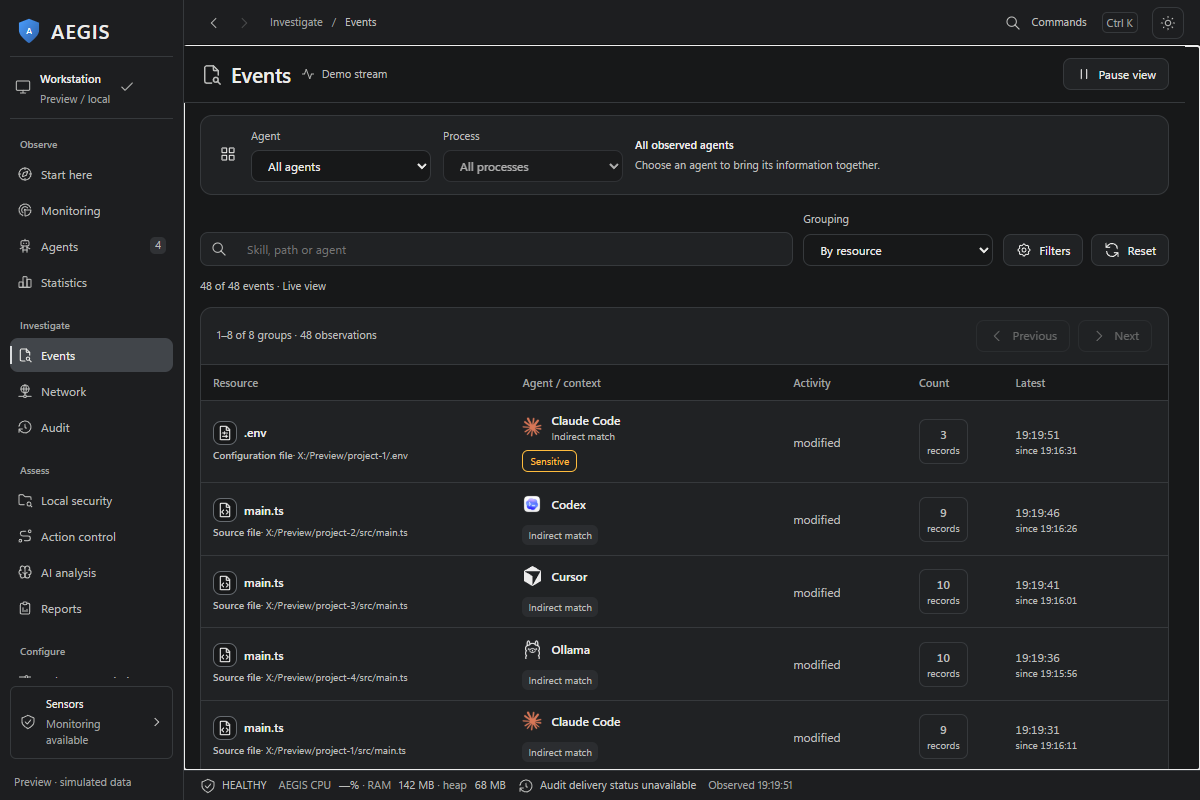
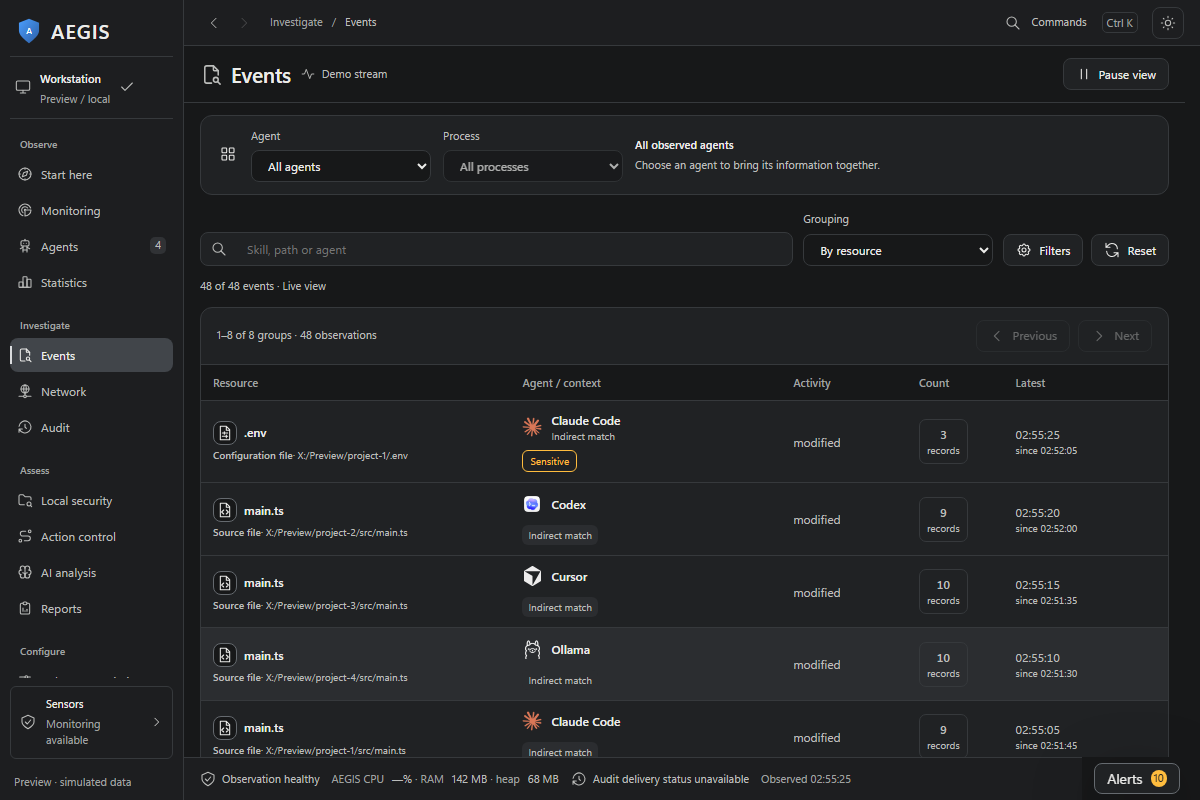
docs(beta): refresh public images and verified release scope

diff --git a/src/main/token-tracker.js b/src/main/token-tracker.js
@@ -62,7 +62,8 @@ const { MODEL_PRICING, DEFAULT_PRICING, computeCost } = require('./token-pricing
  * @property {number} outputTokens - accumulated completion/output tokens.
  * @property {number} totalTokens - `inputTokens + outputTokens`.
  * @property {number} costUsd - accumulated cost in USD (raw float; round at the
- *   display layer). Rests on the unverified {@link MODEL_PRICING} table.
+ *   display layer). Uses the local {@link MODEL_PRICING} table; rates can become
+ *   out of date and are not a provider billing statement.
  * @property {boolean} estimated - true once ANY contributing event had estimated
  *   counts or used an unknown-model fallback price (sticky — never flips back).
  * @property {boolean} [pricingEstimated] - sticky cache-pricing assumption flag;

diff --git a/src/main/token-feed.js b/src/main/token-feed.js
@@ -16,9 +16,9 @@
  *
  *   An adapter that throws or finds no source contributes nothing — a single bad
  *   adapter can never crash the feed or starve the others. The companion
- *   accounting sink is `token-tracker.js`, whose `estimated:false` contract these
- *   measured deltas satisfy; wiring this feed into the scan loop is a separate
- *   task and is intentionally NOT done here.
+ *   accounting sink is `token-tracker.js`. The scan loop passes the current
+ *   process snapshot through `token-cost-collector.js`, which preserves stamped
+ *   process-instance attribution while collecting measured deltas from this feed.
  * @author AEGIS Contributors
  * @license MIT
  * @version 0.1.0

diff --git a/docs/BETA-READINESS.md b/docs/BETA-READINESS.md
@@ -15,6 +15,12 @@ does not itself publish an installer or establish release readiness.
 | Bounded Claude transcript reads and oversized-record recovery | [PR #720](https://github.com/antropos17/Aegis/pull/720), byte-budget/UTF-8/truncation regressions and five successful required CI contexts |
 | Compatible minor/patch dependency maintenance | [PR #698](https://github.com/antropos17/Aegis/pull/698), fresh dependency installation and required CI |
 | Owned Windows fixture closure, private helper builds and bounded default worker load | [PR #722](https://github.com/antropos17/Aegis/pull/722), default Windows coverage: 413 files / 7,598 passing tests, eight skipped; repeated native fixtures: 16 passing tests, no EPERM |
+| Human observation labels and footer growth after language/badge changes | [PR #724](https://github.com/antropos17/Aegis/pull/724), seven regressions, two repeated native passes and final native pass; eight footer scenarios, twelve Statistics labels, 160 browser footer states and 264 workspace checks; 7,605 passing Windows tests |
+| Bounded, cancellable audit-history counters with explicit loading/failure state | [PR #725](https://github.com/antropos17/Aegis/pull/725), captured-prefix/live-append, retention, malformed/oversized record and shutdown regressions; 7,603 passing Windows tests and five successful required CI contexts |
+| MCP fixture readiness follows completed endpoint publication | [PR #727](https://github.com/antropos17/Aegis/pull/727), four deterministic delayed-publication regressions and five consecutive native runs of 34 tests; sanitized failure diagnostics |
+| Lazy local-review tests separate module compilation from loading behavior | [PR #728](https://github.com/antropos17/Aegis/pull/728), controlled pending import, unchanged visible-state assertions and deadlines, two fresh focused runs and five successful required CI contexts |
+| Claude cache-read and duration-specific write prices | [PR #726](https://github.com/antropos17/Aegis/pull/726), real main/subagent transcript accounting, cross-file deduplication and unknown-duration/model regressions; 65 focused passing tests and five successful required CI contexts |
+| Asynchronous bounded Windows Job fixture deletion | [PR #729](https://github.com/antropos17/Aegis/pull/729), ten consecutive native runs of ten tests; Windows coverage at `8069317`: 417 files / 7,611 passing tests, eight skipped, compile cache disabled |
 
 These checks belong to their recorded PR revisions. Final combined-source checks
 and a final-version installer smoke are separate release gates. A source or
@@ -51,10 +57,12 @@ remains unavailable. No VM/provider provisioning is part of beta preparation.
 
 macOS/Linux remain experimental; macOS process-generation identity is unresolved
 in [#633](https://github.com/antropos17/Aegis/issues/633). Windows fixture cleanup
-was verified through [PR #722](https://github.com/antropos17/Aegis/pull/722).
-Audit startup counters [#639](https://github.com/antropos17/Aegis/issues/639), Claude
-cache pricing [#636](https://github.com/antropos17/Aegis/issues/636) and retained token
-state [#637](https://github.com/antropos17/Aegis/issues/637) need their own fixes.
+received a follow-up in [PR #729](https://github.com/antropos17/Aegis/pull/729) after
+a later combined-source run reproduced EPERM. Earlier successful checks remain
+evidence for their recorded revisions, rather than a guarantee for later runs.
+Retained token state [#637](https://github.com/antropos17/Aegis/issues/637) remains
+unbounded for the application lifetime. Compaction must preserve cumulative spend,
+process-instance attribution and deduplication when a Claude session resumes.
 Token totals may lag a backlog or omit oversized records; dollar amounts are local
 estimates rather than provider bills. See [token accounting](TOKEN-ACCOUNTING.md).
 

diff --git a/README.md b/README.md
@@ -35,7 +35,7 @@ general agent containment or the experimental VM/provider routes.
 <p align="center">
   <img src="docs/screenshots/01-monitoring.png" width="980" alt="AEGIS Observatory monitoring workspace with simulated agents and an instance radar">
 </p>
-<p align="center"><sub>Observatory preview with simulated data, captured from current source on 27 September 2026.</sub></p>
+<p align="center"><sub>Observatory preview with simulated data, captured during beta preparation on 1 October 2026.</sub></p>
 
 ## Start with a task
 
@@ -213,7 +213,7 @@ See the [architecture](ARCHITECTURE.md), [correctness audit](docs/current-state/
 - **Sensor and audit gaps:** Health status does not prove complete capture. A fully lost file-watch plan gets up to three retry attempts per confirmed outage; the budget resets after a healthy plan is observed. Exited watch workers count as lost roots. Partially degraded roots need separate repair. Audit loss markers require a successful flush; process-scan overruns lack a dedicated counter.
 - **Sensitive metadata:** Logs and exports contain paths, agent names and endpoints. Configuration and diagnostic exports omit the configured API key. Local key encryption depends on safeStorage availability. See [SECURITY.md](SECURITY.md).
 - **Unmeasured claims:** No general detection rate, false-positive rate, startup-time guarantee or whole-app overhead figure has been established.
-- **Token subtotals:** Bounded transcript reads can lag a backlog; records above 512 KiB are skipped with a fixed diagnostic. See [token accounting limits](docs/TOKEN-ACCOUNTING.md), including incomplete coverage and estimated dollar amounts.
+- **Token subtotals:** Bounded transcript reads can lag a backlog; records above 512 KiB are skipped with a fixed diagnostic. Historical token records and transcript deduplication state remain in memory for the application lifetime ([#637](https://github.com/antropos17/Aegis/issues/637)). See [token accounting limits](docs/TOKEN-ACCOUNTING.md), including incomplete coverage and estimated dollar amounts.
 
 ## Development and roadmap
 

diff --git a/docs/releases/0.18.0-beta.md b/docs/releases/0.18.0-beta.md
@@ -21,7 +21,8 @@ deleting your settings, audit history or saved alert reviews.
   with saved review state and guarded links to current process controls.
 - Observation outages, partial identity, skipped scans and sensor failures now
   retain explicit uncertainty. Audit delivery reports pending writes and session
-  loss separately from readable retained history.
+  loss separately from readable retained history. History counters load in bounded
+  steps, and sensor labels update with the selected interface language.
 - Network, file attribution, operational logs, path rules, report retention and
   IPC batching received focused correctness and bounded-work fixes. Claude
   transcripts are processed in bounded batches and resume on later scans.
@@ -38,7 +39,11 @@ Selected-action routes require explicit configuration. VM/provider qualification
 fixtures are development evidence; broader enforcement admission remains disabled.
 
 Token totals are observed subtotals while a backlog drains; unsupported or oversized
-records reduce coverage. Cache pricing and retained token state have open issues.
+records reduce coverage. Cache reads and five-minute/one-hour writes use separate
+local prices for supported Claude models; an unknown write duration marks the
+price as approximate. Dollar amounts remain local estimates rather than provider
+bills. Historical token records and transcript deduplication state are retained
+for the application lifetime; long-running churn can grow memory and IPC payloads.
 See [beta readiness](../BETA-READINESS.md) for the current gates and unresolved items.
 
 The full generated changelog belongs below this user summary in the final release.

diff --git a/docs/screenshots/README.md b/docs/screenshots/README.md
@@ -1,6 +1,6 @@
 # Observatory screenshots
 
-Captured from the 0.17.0-alpha source preview on 27 September 2026 with simulated data. They show the interface and do not demonstrate live detection, an installed release, or automatic blocking.
+Captured on 1 October 2026 from the [beta-preparation source](https://github.com/antropos17/Aegis/tree/2f5689743639821c4e82a0a003cd0b3c848c29ad), whose package version is still 0.17.0-alpha. Data is simulated and notification popups were dismissed through their normal controls. These images show the interface; live detection, an installed beta and automatic blocking require separate verification.
 
 | Observe | Investigate |
 | --- | --- |
